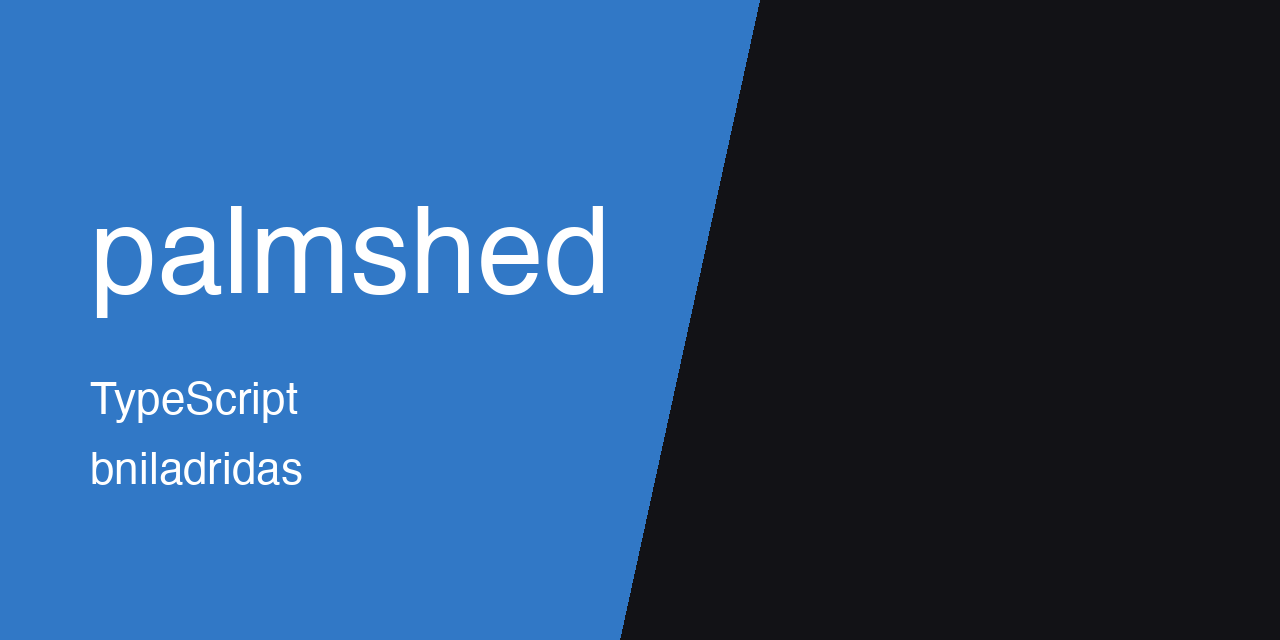
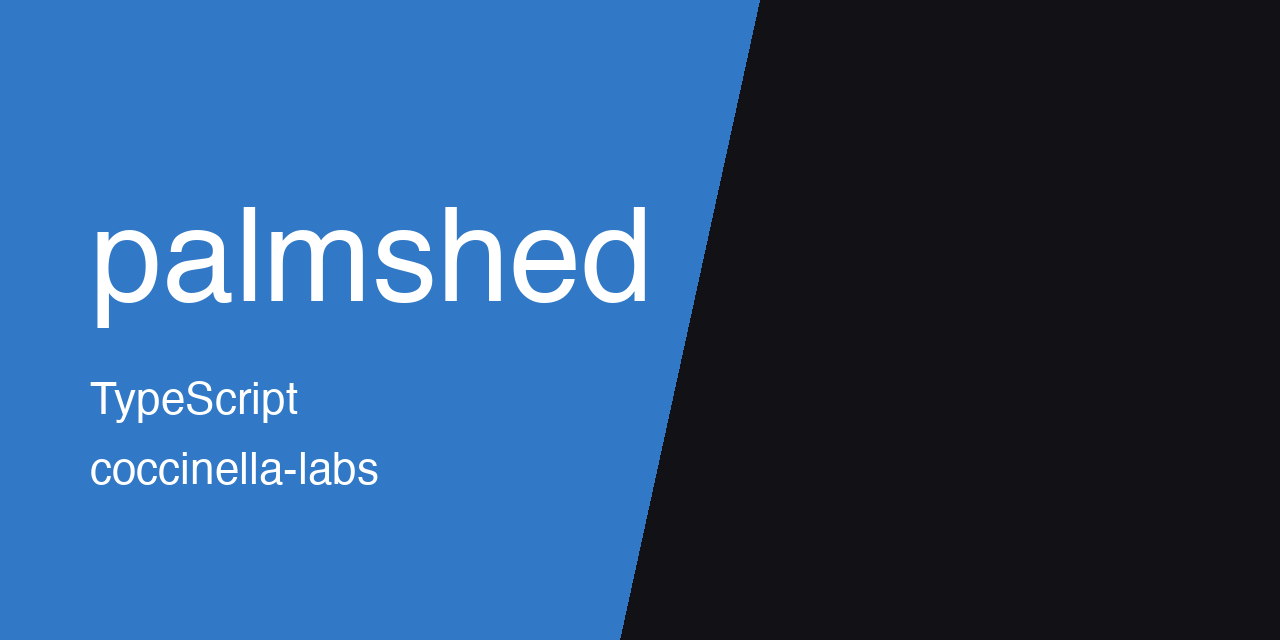
[docs] move thumbnail to coccinella-labs

Changed region(s): [[0.0625, 0.3125, 0.5312, 0.5312], [0.0625, 0.6875, 0.3125, 0.7812]]

diff --git a/README.md b/README.md
@@ -1,4 +1,8 @@
 <p align="center">
+  <img src="https://raw.githubusercontent.com/Coccinella-Labs/palmshed/main/.github/assets/thumbnail.png" alt="palmshed" width="100%">
+</p>
+
+<p align="center">
   <img src="https://raw.githubusercontent.com/bniladridas/palmshed/main/.github/assets/thumbnail.png" alt="palmshed" width="100%">
 </p>
 
